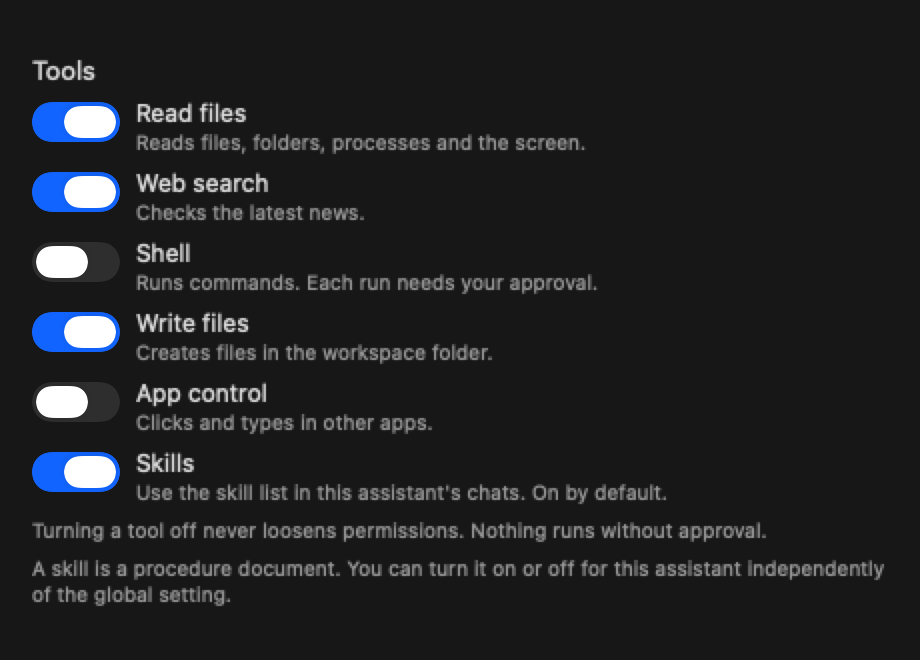
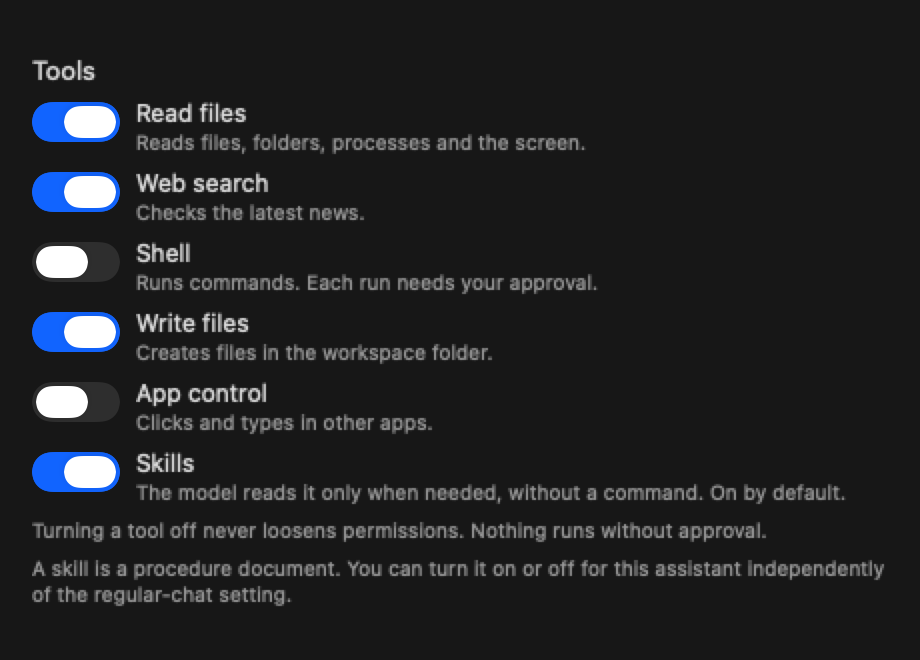
fix(macos): v0.37.1 스킬 설정 화면에 사용법·범위 안내 추가
사용자 피드백 "어떻게 하라는거지" — 화면이 스킬이 무엇인지만 설명하고
켠 뒤 무엇을 하는지, 일반 대화와 비서 대화의 범위가 한눈에 보이지 않았다.

- 전역 토글 설명을 행동 중심으로: "켜 두면 평소처럼 질문하기만 하면 됩니다..."
- 상태에 따라 현재 범위 표시: 일반+비서 / 비서만(기본 켜짐)
- 구체적 예시 한 줄 추가: "최근 AI 브라우저 3개를 비교해 줘" → 알맞은 스킬 절차
- 행 토글 툴팁을 "프롬프트" 대신 "모델에게 보여 주기"로
- 비서 편집 캡션: "따로 명령하지 않아도 필요할 때 골라 읽습니다"
- 빈 상태: 가져오면 필요할 때 읽는다는 안내
- 번역 키 갱신 · QA 렌더 재생성

검증: swift test 1040/1040(6 skip) · Debug/Release BUILD SUCCEEDED · 경고 0 ·
--qa-skills-routing PASS 14항목.

Changed region(s): [[0.1522, 0.7273, 0.913, 0.7576], [0.0913, 0.8788, 0.3348, 0.9394]]

diff --git a/Sources/QuickTalkCore/LocalizationTable.swift b/Sources/QuickTalkCore/LocalizationTable.swift
@@ -1697,9 +1697,11 @@ extension L10n {
     "스킬": "Skills",
     "스킬: %@": "Skill: %@",
     "일반 대화에서 스킬 사용": "Use skills in regular chats",
-    "스킬은 SKILL.md 에 적힌 절차입니다. 모델이 필요할 때 본문을 읽고 그 절차를 따릅니다. 기본은 꺼짐입니다.": "A skill is a procedure written in SKILL.md. The model reads the full text only when needed and follows it. Off by default.",
-    "비서 대화는 비서 설정을 따릅니다 — 비서는 기본으로 켜져 있습니다.": "Assistant chats follow the assistant's own setting — on by default.",
-    "아직 스킬이 없습니다. SKILL.md 가 있는 폴더를 가져오세요.": "No skills yet. Import a folder that contains SKILL.md.",
+    "켜 두면 평소처럼 질문하기만 하면 됩니다. 필요할 때 모델이 스킬을 골라 읽고 절차를 따릅니다.": "Just ask as usual. The model picks a skill and reads its procedure only when needed.",
+    "일반 대화와 비서 대화에서 사용합니다 — 비서별로 끌 수 있습니다.": "Used in regular and assistant chats — each assistant can turn it off.",
+    "지금은 비서 대화에서만 사용합니다 — 비서는 기본으로 켜져 있습니다.": "Currently used only in assistant chats — on by default.",
+    "예: “최근 AI 브라우저 3개를 비교해 줘” → 필요할 때 알맞은 스킬의 절차를 읽습니다.": "Example: “Compare three recent AI browsers” → the model reads a matching skill's procedure when needed.",
+    "아직 스킬이 없습니다. SKILL.md 가 있는 폴더를 가져오면 필요할 때 모델이 읽습니다.": "No skills yet. Import a folder containing SKILL.md and the model will read it when needed.",
     "폴더에서 가져오기": "Import from Folder",
     "경고 숨기기": "Hide warnings",
     "무시된 스킬 %d개": "%d ignored skills",
@@ -1715,13 +1717,13 @@ extension L10n {
     "권한 필요": "Needs permission",
     "언제: %@": "When: %@",
     "이 스킬은 %@ 도구가 필요합니다.": "This skill needs the %@ tool.",
-    "이 스킬을 프롬프트에서 뺍니다": "Remove this skill from the prompt",
-    "이 스킬을 프롬프트에 넣습니다": "Add this skill to the prompt",
+    "이 스킬을 모델에게 보여 주지 않습니다": "Do not show this skill to the model",
+    "이 스킬을 모델에게 보여 줍니다": "Show this skill to the model",
     "SKILL.md 가 있는 폴더만 가져올 수 있습니다.": "Only folders containing SKILL.md can be imported.",
     "스킬 폴더 밖을 가리키는 심볼릭 링크가 있습니다.": "A symbolic link points outside the skill folder.",
     "스킬 폴더가 5MB 를 넘습니다.": "The skill folder is larger than 5MB.",
-    "이 비서 대화에서 스킬 목록을 씁니다. 기본은 켜짐입니다.": "Use the skill list in this assistant's chats. On by default.",
-    "스킬은 절차 문서입니다. 전역 설정과 별개로 이 비서에서만 켜고 끌 수 있습니다.": "A skill is a procedure document. You can turn it on or off for this assistant independently of the global setting.",
+    "따로 명령하지 않아도 필요할 때 모델이 골라 읽습니다. 기본은 켜짐입니다.": "The model reads it only when needed, without a command. On by default.",
+    "스킬은 절차 문서입니다. 일반 대화 설정과 별개로 이 비서에서만 켜고 끌 수 있습니다.": "A skill is a procedure document. You can turn it on or off for this assistant independently of the regular-chat setting.",
     // QA 렌더용 예시 스킬 (실제 번들 설명과 같은 문구 포함)
     "웹 조사": "Web research",
     "여러 사이트를 조사해 출처를 붙여 비교·요약한다": "Researches multiple sites and compares them with sources",

diff --git a/QuickTalkApp/SettingsView+Tools.swift b/QuickTalkApp/SettingsView+Tools.swift
@@ -552,11 +552,32 @@ extension SettingsView {
     groupBox(L("스킬")) {
       toggleRow(L("일반 대화에서 스킬 사용"),
                 isOn: $store.settings.skillsEnabled,
-                description: L("스킬은 SKILL.md 에 적힌 절차입니다. 모델이 필요할 때 본문을 읽고 그 절차를 따릅니다. 기본은 꺼짐입니다."))
-      caption(L("비서 대화는 비서 설정을 따릅니다 — 비서는 기본으로 켜져 있습니다."))
+                description: L("켜 두면 평소처럼 질문하기만 하면 됩니다. 필요할 때 모델이 스킬을 골라 읽고 절차를 따릅니다."))
+      HStack(alignment: .top, spacing: 4) {
+        Image(systemName: store.settings.skillsEnabled ? "checkmark.circle" : "info.circle")
+          .font(.system(size: 10))
+          .padding(.top, 1)
+        Text(store.settings.skillsEnabled
+             ? L("일반 대화와 비서 대화에서 사용합니다 — 비서별로 끌 수 있습니다.")
+             : L("지금은 비서 대화에서만 사용합니다 — 비서는 기본으로 켜져 있습니다."))
+          .fixedSize(horizontal: false, vertical: true)
+      }
+      .font(.caption)
+      .foregroundColor(.secondary)
+      .padding(.leading, 2)
+      HStack(alignment: .top, spacing: 4) {
+        Image(systemName: "text.bubble")
+          .font(.system(size: 10))
+          .padding(.top, 1)
+        Text(L("예: “최근 AI 브라우저 3개를 비교해 줘” → 필요할 때 알맞은 스킬의 절차를 읽습니다."))
+          .fixedSize(horizontal: false, vertical: true)
+      }
+      .font(.caption)
+      .foregroundColor(.secondary)
+      .padding(.leading, 2)
 
       if loadedSkills.isEmpty {
-        caption(L("아직 스킬이 없습니다. SKILL.md 가 있는 폴더를 가져오세요."))
+        caption(L("아직 스킬이 없습니다. SKILL.md 가 있는 폴더를 가져오면 필요할 때 모델이 읽습니다."))
       } else {
         VStack(alignment: .leading, spacing: 0) {
           ForEach(loadedSkills) { skill in
@@ -685,7 +706,8 @@ extension SettingsView {
       .labelsHidden()
       .toggleStyle(.switch)
       .controlSize(.mini)
-      .help(enabled ? L("이 스킬을 프롬프트에서 뺍니다") : L("이 스킬을 프롬프트에 넣습니다"))
+      .help(enabled ? L("이 스킬을 모델에게 보여 주지 않습니다")
+                    : L("이 스킬을 모델에게 보여 줍니다"))
       Menu {
         Button(L("Finder에서 보기")) { SkillImporter.reveal(id: skill.id) }
           .disabled(skill.source == .bundled)

diff --git a/QuickTalkApp/SettingsView+Assistant.swift b/QuickTalkApp/SettingsView+Assistant.swift
@@ -625,11 +625,11 @@ struct PersonaToolsSection: View {
       toolToggle(L("셸"), L("명령을 실행합니다. 실행할 때마다 승인을 받습니다."), $tools.shell)
       toolToggle(L("파일 쓰기"), L("작업 폴더에 파일을 만듭니다."), $tools.write)
       toolToggle(L("앱 조작"), L("다른 앱의 화면 요소를 클릭·입력합니다."), $tools.ui)
-      toolToggle(L("스킬"), L("이 비서 대화에서 스킬 목록을 씁니다. 기본은 켜짐입니다."), $skillsEnabled)
+      toolToggle(L("스킬"), L("따로 명령하지 않아도 필요할 때 모델이 골라 읽습니다. 기본은 켜짐입니다."), $skillsEnabled)
       Text(L("도구를 꺼도 실행 권한이 느슨해지지 않습니다. 승인 없는 실행은 없습니다."))
         .font(.caption).foregroundColor(.secondary)
         .fixedSize(horizontal: false, vertical: true)
-      Text(L("스킬은 절차 문서입니다. 전역 설정과 별개로 이 비서에서만 켜고 끌 수 있습니다."))
+      Text(L("스킬은 절차 문서입니다. 일반 대화 설정과 별개로 이 비서에서만 켜고 끌 수 있습니다."))
         .font(.caption).foregroundColor(.secondary)
         .fixedSize(horizontal: false, vertical: true)
     }

diff --git a/docs/qa/v0.37-skills/README.md b/docs/qa/v0.37-skills/README.md
@@ -25,10 +25,10 @@ APP=build/DerivedData/Build/Products/Debug/QuickTalk.app/Contents/MacOS/QuickTal
 | 파일 | 상태 | 확인한 것 |
 | --- | --- | --- |
 | `empty/settings-tools-ko.png` | 스킬 0개 | 빈 상태 문구 · 전역 토글 기본 **꺼짐** · 가져오기 버튼 |
-| `list/settings-tools-ko.png` | 2개 | 이름·설명·`언제` · 기본/사용자 배지 · 읽기/쓰기 배지 · 행별 [사용] 토글 |
+| `list/settings-tools-ko.png` | 2개 | **사용법(평소처럼 질문)** · 범위 안내(일반/비서) · 예시 · 이름·설명·`언제` · 기본/사용자 배지 · 읽기/쓰기 배지 · 행별 [사용] 토글 |
 | `warn/settings-tools-ko.png` | 경고 2건 | `권한 필요` 배지 + 사유 캡션(`ui_snapshot`) · `무시된 스킬 2개` 펼침 |
-| `en/settings-tools-en.png` | English | `Skills` · `Basic`/`User` · `Read`/`Write` · `Import from Folder` |
-| `persona/persona-skills-ko.png` | 비서 편집 | `도구` 그룹의 `스킬` 토글 **기본 켜짐** · 전역과 별개 설명 |
+| `en/settings-tools-en.png` | English | `Skills` · `Use skills in regular chats` · `Basic`/`User` · `Read`/`Write` · `Import from Folder` |
+| `persona/persona-skills-ko.png` | 비서 편집 | `도구` 그룹의 `스킬` 토글 **기본 켜짐** · "따로 명령하지 않아도 필요할 때 골라 읽습니다" · 일반 대화 설정과 별개 설명 |
 | `persona-en/persona-skills-en.png` | English | `Skills` 토글 · 캡션 번역 |
 
 ## 헤드리스 라우팅
@@ -71,6 +71,18 @@ APP=build/DerivedData/Build/Products/Debug/QuickTalk.app/Contents/MacOS/QuickTal
 - 모델이 목록에서 스킬을 고르고 `read_skill` 을 **실제로 호출**했다.
 - `read_skill` 은 읽기 전용이라 승인 카드·권한 상승이 없고, 감사 로그만 남는다.
 - `--skills` 는 QA 전용 — 전역 토글을 **메모리에서만** 켜고 끝나면 되돌린다(저장 없음).
+
+## UI 문구 개선 (2026-11-12)
+
+사용자 피드백 *"어떻게 하라는거지 …"* — 화면이 **스킬이 무엇인지**만 설명하고
+**켠 뒤 무엇을 하는지**가 없었다. 두 단계 토글(일반 대화 / 비서 대화)도 한눈에 구분되지 않았다.
+
+- 전역 토글 설명을 **행동 중심**으로: "켜 두면 평소처럼 질문하기만 하면 됩니다. 필요할 때 모델이 스킬을 골라 읽고 절차를 따릅니다."
+- 현재 범위를 **상태에 따라** 표시: 꺼짐이면 "지금은 비서 대화에서만 사용합니다 — 비서는 기본으로 켜져 있습니다.", 켜짐이면 "일반 대화와 비서 대화에서 사용합니다 — 비서별로 끌 수 있습니다."
+- **예시 한 줄** 추가: “최근 AI 브라우저 3개를 비교해 줘” → 필요할 때 알맞은 스킬의 절차를 읽습니다.
+- 행 토글 툴팁을 "프롬프트" 대신 **"모델에게 보여 주기"** 로.
+- 비서 편집 캡션: "따로 명령하지 않아도 필요할 때 모델이 골라 읽습니다. 기본은 켜짐입니다."
+- 빈 상태: "SKILL.md 가 있는 폴더를 가져오면 필요할 때 모델이 읽습니다."
 
 ## 한계(정직)
 
